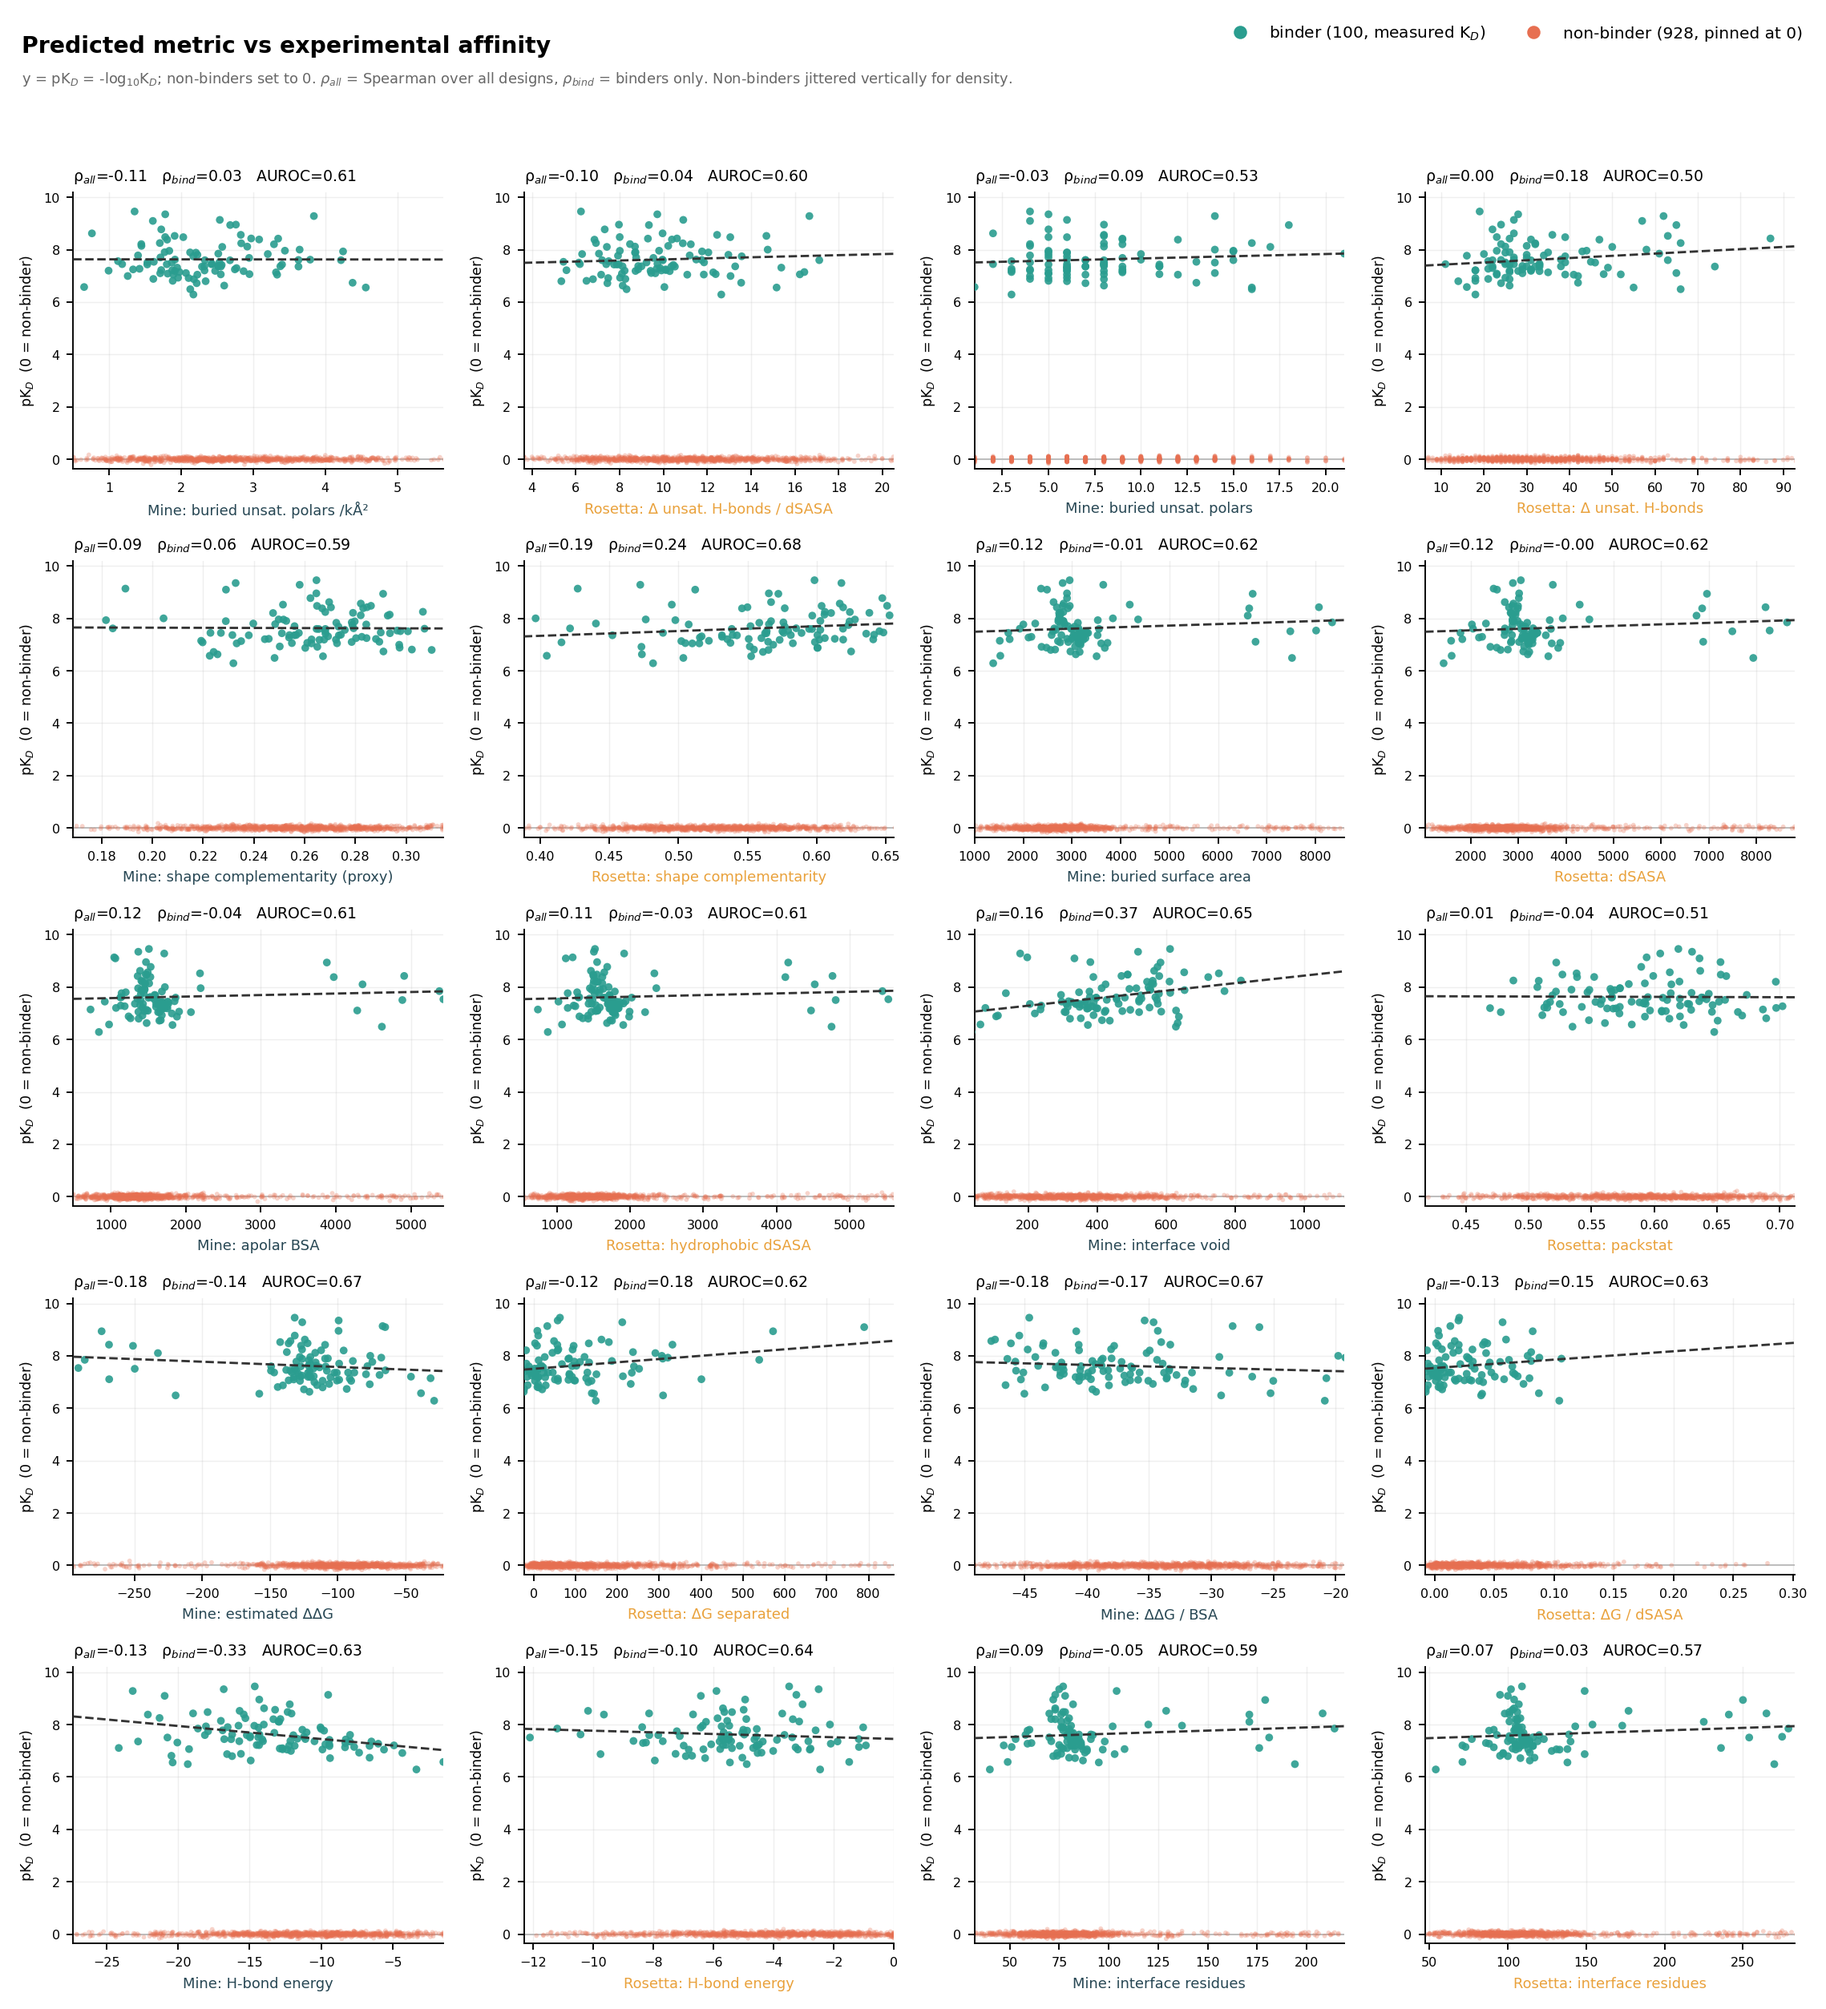
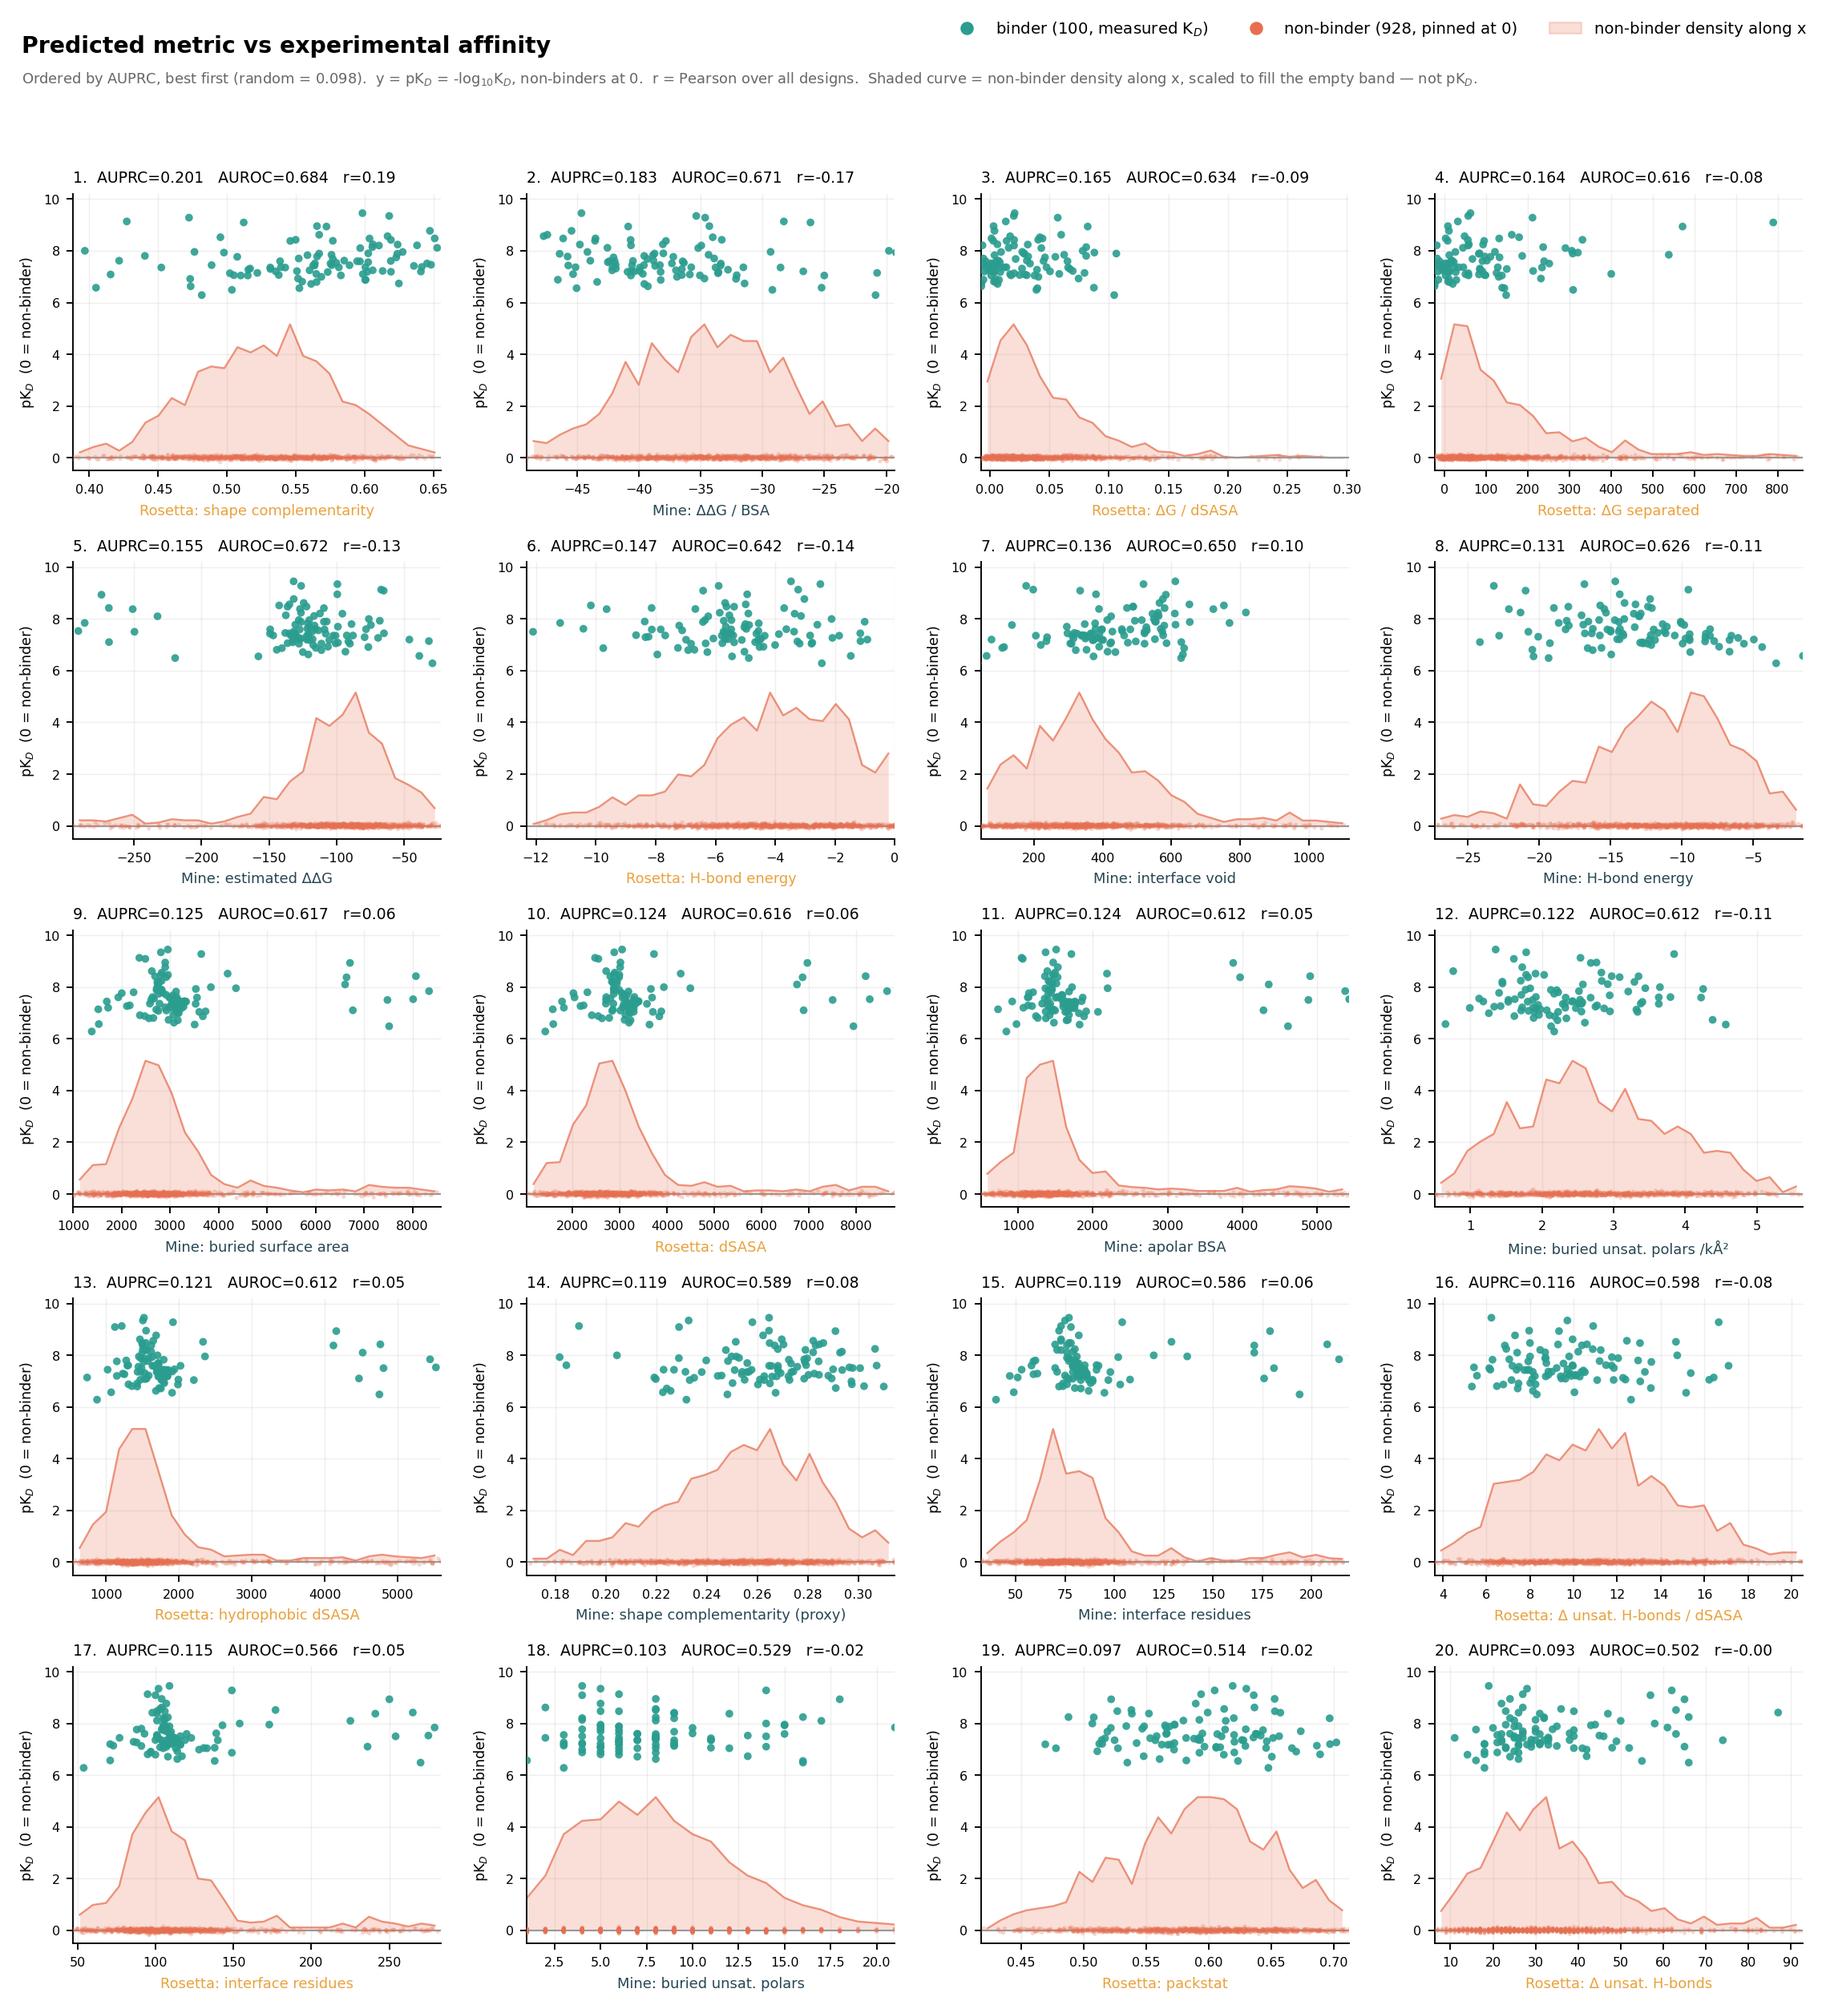
Fig 09_1: add AUPRC, order by accuracy, clarify non-binder density
- Report AUPRC alongside AUROC on every panel; panels now ordered by AUPRC,
  best first, reading left to right then down.
- Correlation is Pearson over all designs only; the binders-only Spearman is dropped.
- Non-binder pile-up at pK_D 0 is now drawn as a filled density curve along x,
  scaled to fill the empty band between 0 and the weakest binder (pK_D 6.29),
  instead of relying on jittered points alone.
- Histogram bins align to integer boundaries for discrete metrics, removing the
  comb artefact on buns_loose.
- Removed the binder density band, which overlapped the binder points.

diff --git a/code/plots5.py b/code/plots5.py
@@ -1,15 +1,18 @@
-"""Fig 09_1: every matched metric vs experimental affinity, non-binders pinned at 0.
+"""Fig 09_1: predicted metric vs experimental affinity, non-binders pinned at 0.
 
-y = pK_D = -log10(K_D).  Non-binders are set to 0 ("no measurable affinity").
+y = pK_D = -log10(K_D); non-binders set to 0 ("no measurable affinity").
 A raw K_D axis cannot take 0 for non-binders: 0 M would plot below the tightest
-binder and read as infinite affinity. pK_D puts tighter binding higher and 0 at
-the bottom, which is what "0 for non-binders" actually means.
+binder and read as infinite affinity.
+
+Panels are ordered by AUPRC, best first, reading left-to-right then down.
+The shaded band rising from y=0 is the non-binder density along x (scaled to the
+empty region between 0 and the weakest binder) so the pile-up at 0 is legible.
 """
 import matplotlib; matplotlib.use('Agg')
 import matplotlib.pyplot as plt, pandas as pd, numpy as np, os, warnings
 warnings.filterwarnings('ignore')
-from scipy.stats import spearmanr
-from sklearn.metrics import roc_auc_score
+from scipy.stats import pearsonr
+from sklearn.metrics import roc_auc_score, average_precision_score
 plt.rcParams.update({'figure.dpi':170,'savefig.dpi':170,'font.size':9,
  'axes.spines.top':False,'axes.spines.right':False,'axes.grid':True,
  'grid.alpha':.2,'grid.linewidth':.6,'axes.axisbelow':True,
@@ -22,16 +25,15 @@ HH=pd.read_csv('head_to_head.csv')
 D['kd']=pd.to_numeric(D.kd,errors='coerce')
 y=D.y.values
 
-# pK_D: binders -> -log10(Kd); non-binders -> 0
 pkd=np.full(len(D),np.nan)
 pkd[y==0]=0.0
-m=(y==1)&D.kd.notna().values&(D.kd.values>0)
-pkd[m]=-np.log10(D.kd.values[m])
+mb=(y==1)&D.kd.notna().values&(D.kd.values>0)
+pkd[mb]=-np.log10(D.kd.values[mb])
 D['pkd']=pkd
-n_drop=int(((y==1)&~m).sum())
 keep=D.pkd.notna()
-print(f"plotted: {int(keep.sum())}  binders with Kd: {int(m.sum())}  "
-      f"non-binders at 0: {int((y==0).sum())}  binders dropped (no Kd): {n_drop}")
+PKD_MIN=float(np.nanmin(pkd[mb]))
+print(f"plotted={int(keep.sum())}  binders with Kd={int(mb.sum())}  "
+      f"non-binders at 0={int((y==0).sum())}  weakest binder pK_D={PKD_MIN:.2f}")
 
 PRETTY={'buns_loose_density':'buried unsat. polars /kÅ²','buns_loose':'buried unsat. polars',
  'sc':'shape complementarity (proxy)','bsa':'buried surface area','bsa_apolar':'apolar BSA',
@@ -43,63 +45,83 @@ PRETTY={'buns_loose_density':'buried unsat. polars /kÅ²','buns_loose':'buried 
  'ros_hb_E':'H-bond energy','ros_nres':'interface residues'}
 def lab(c): return PRETTY.get(c,c.replace('ros_','').replace('_',' '))
 
-# one panel per implementation, concepts kept adjacent
-panels=[]
+# ---- score every panel first, then order by AUPRC -------------------------
+cand=[]
 for _,r in HH.iterrows():
-    panels.append((r.concept,r.mine,'Mine'))
-    panels.append((r.concept,r.rosetta,'Rosetta'))
-
-ncol=4; nrow=int(np.ceil(len(panels)/ncol))
-fig,axes=plt.subplots(nrow,ncol,figsize=(3.35*ncol,2.95*nrow))
-rng=np.random.default_rng(0)
-stats=[]
-for ax,(concept,col,who) in zip(np.ravel(axes),panels):
+    cand += [(r.mine,'Mine'),(r.rosetta,'Rosetta')]
+rows=[]
+for col,who in cand:
     v=pd.to_numeric(D[col],errors='coerce')
     ok=keep.values&v.notna().values
+    if ok.sum()<100: continue
+    xv=v.values[ok]; yy=y[ok]
+    a=roc_auc_score(yy,xv); sg=1 if a>=.5 else -1
+    rows.append(dict(metric=col,source=who,ok=ok,sign=sg,
+                     AUROC=roc_auc_score(yy,sg*xv),
+                     AUPRC=average_precision_score(yy,sg*xv),
+                     pearson_all=pearsonr(xv,D.pkd.values[ok])[0]))
+P=pd.DataFrame(rows).sort_values('AUPRC',ascending=False).reset_index(drop=True)
+
+ncol=4; nrow=int(np.ceil(len(P)/ncol))
+fig,axes=plt.subplots(nrow,ncol,figsize=(3.35*ncol,2.95*nrow))
+rng=np.random.default_rng(0)
+DENS_TOP=PKD_MIN*0.82          # density band fills the empty region only
+for k,(ax,(_,r)) in enumerate(zip(np.ravel(axes),P.iterrows())):
+    v=pd.to_numeric(D[r.metric],errors='coerce')
+    ok=r.ok
     xv=v.values[ok]; yv=D.pkd.values[ok]; yy=y[ok]
     lo,hi=np.nanpercentile(xv,[1,99])
     if not np.isfinite(lo) or hi<=lo: ax.axis('off'); continue
-    # jitter the stacked non-binders so density is visible
-    yj=yv.copy(); yj[yy==0]=rng.normal(0,.055,int((yy==0).sum()))
-    ax.scatter(xv[yy==0],yj[yy==0],s=6,color=NO,alpha=.30,edgecolor='none',zorder=2)
-    ax.scatter(xv[yy==1],yv[yy==1],s=17,color=HIT,alpha=.9,edgecolor='none',zorder=3)
-    ax.axhline(0,color='#BBB',lw=.8,zorder=1)
-    rho_all=spearmanr(xv,yv).correlation
-    mb=yy==1
-    rho_b=spearmanr(xv[mb],yv[mb]).correlation if mb.sum()>10 else np.nan
-    au=roc_auc_score(yy,xv); au=max(au,1-au)
-    if mb.sum()>3:
-        z=np.polyfit(xv[mb],yv[mb],1); xs=np.linspace(lo,hi,20)
-        ax.plot(xs,np.polyval(z,xs),color='#333',lw=1.2,ls='--',zorder=4)
-    ax.set_xlim(lo,hi); ax.set_ylim(-.35,10.2)
-    c=MINE if who=='Mine' else ROS
-    ax.set_xlabel(f'{who}: {lab(col)}',fontsize=7.6,color=c)
+
+    # non-binder density along x, scaled into the empty band
+    nb=xv[yy==0]
+    uniq=np.unique(np.round(xv,6))
+    is_int=np.allclose(uniq,np.round(uniq))
+    if is_int and len(uniq)<=30:
+        # integer-valued metric: align bin edges to integer boundaries so the
+        # histogram does not comb from edges straddling integers
+        bins=np.arange(np.floor(lo)-.5,np.ceil(hi)+1.5,1.0)
+        cnt,edges=np.histogram(nb,bins=bins)
+    else:
+        cnt,edges=np.histogram(nb,bins=int(min(28,max(8,len(uniq)))),range=(lo,hi))
+    ctr=(edges[:-1]+edges[1:])/2
+    if cnt.max()>0:
+        ax.fill_between(ctr,0,cnt/cnt.max()*DENS_TOP,color=NO,alpha=.22,
+                        lw=0,zorder=1)
+        ax.plot(ctr,cnt/cnt.max()*DENS_TOP,color=NO,lw=1.0,alpha=.75,zorder=2)
+    bx=xv[yy==1]
+    ax.scatter(xv[yy==0],rng.normal(0,.045,int((yy==0).sum())),s=5,color=NO,
+               alpha=.28,edgecolor='none',zorder=3)
+    ax.scatter(bx,yv[yy==1],s=17,color=HIT,alpha=.9,edgecolor='none',zorder=4)
+    ax.axhline(0,color='#999',lw=.9,zorder=2)
+
+    ax.set_xlim(lo,hi); ax.set_ylim(-.5,10.2)
+    c=MINE if r.source=='Mine' else ROS
+    ax.set_xlabel(f'{r.source}: {lab(r.metric)}',fontsize=7.6,color=c)
     ax.set_ylabel('pK$_D$  (0 = non-binder)',fontsize=7.4)
-    ax.set_title(f'ρ$_{{all}}$={rho_all:.2f}   ρ$_{{bind}}$={rho_b:.2f}   AUROC={au:.2f}',
+    ax.set_title(f'{k+1}.  AUPRC={r.AUPRC:.3f}   AUROC={r.AUROC:.3f}   r={r.pearson_all:.2f}',
                  fontsize=8,loc='left')
     ax.tick_params(labelsize=6.8)
-    stats.append(dict(concept=concept,metric=col,source=who,rho_all=rho_all,
-                      rho_binders_only=rho_b,AUROC=au))
-for ax in np.ravel(axes)[len(panels):]: ax.axis('off')
+for ax in np.ravel(axes)[len(P):]: ax.axis('off')
 
 h=[plt.Line2D([],[],marker='o',ls='',color=HIT,ms=6),
-   plt.Line2D([],[],marker='o',ls='',color=NO,ms=6)]
-fig.legend(h,[f'binder ({int(m.sum())}, measured K$_D$)',f'non-binder ({int((y==0).sum())}, pinned at 0)'],
-           frameon=False,fontsize=8.5,ncol=2,loc='upper right',bbox_to_anchor=(.995,.995))
+   plt.Line2D([],[],marker='o',ls='',color=NO,ms=6),
+   plt.Rectangle((0,0),1,1,color=NO,alpha=.22)]
+fig.legend(h,[f'binder ({int(mb.sum())}, measured K$_D$)',
+              f'non-binder ({int((y==0).sum())}, pinned at 0)',
+              'non-binder density along x'],
+           frameon=False,fontsize=8.4,ncol=3,loc='upper right',bbox_to_anchor=(.997,.997))
 H=fig.get_figheight()
 fig.suptitle('Predicted metric vs experimental affinity',x=.012,ha='left',
              y=1-0.26/H,va='top',fontsize=12,weight='bold')
 fig.text(.012,1-0.52/H,
- 'y = pK$_D$ = -log$_{10}$K$_D$; non-binders set to 0. '
- r'$\rho_{all}$ = Spearman over all designs, $\rho_{bind}$ = binders only. '
- 'Non-binders jittered vertically for density.',
+ f'Ordered by AUPRC, best first (random = {y.mean():.3f}).  '
+ r'y = pK$_D$ = -log$_{10}$K$_D$, non-binders at 0.  r = Pearson over all designs.  '
+ 'Shaded curve = non-binder density along x, scaled to fill the empty band — not pK$_D$.',
  fontsize=7.6,color='#666',va='top')
-fig.tight_layout(rect=[0,0,1,1-0.80/H])
+fig.tight_layout(rect=[0,0,1,1-0.82/H])
 fig.savefig(f'{OUT}/09_1_metric_vs_affinity.png'); plt.close(fig)
 
-S=pd.DataFrame(stats)
-S.to_csv('metric_vs_affinity.csv',index=False)
-print("\n=== correlation with pK_D ===")
-print(S.reindex(S.rho_all.abs().sort_values(ascending=False).index)
-       .to_string(index=False,float_format=lambda v:f"{v:.3f}"))
-print("\nwrote figures/09_1_metric_vs_affinity.png")
+P.drop(columns=['ok','sign']).to_csv('metric_vs_affinity.csv',index=False)
+print("\n=== ordered by AUPRC ===")
+print(P.drop(columns=['ok','sign']).to_string(index=False,float_format=lambda v:f"{v:.3f}"))
